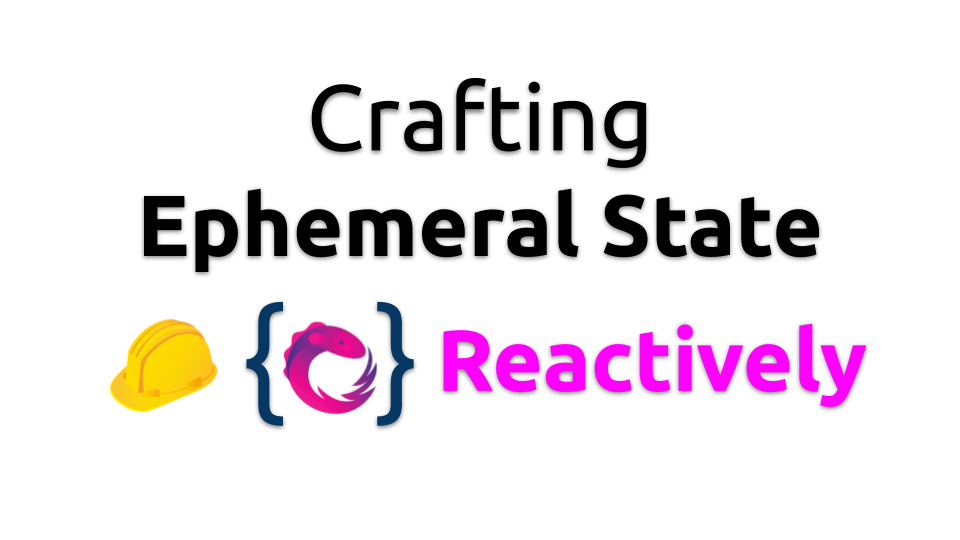
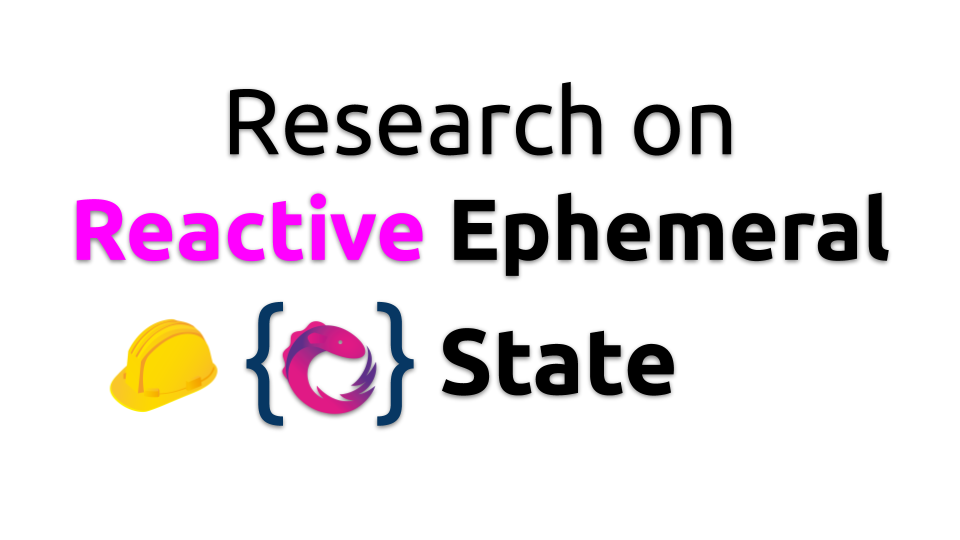
Moved away from StackBlitz

diff --git a/src/app/examples/demo-basics/1/demo-basics-1.component.ts b/src/app/examples/demo-basics/1/demo-basics-1.component.ts
@@ -21,7 +21,7 @@ const initComponentState = {
 @Component({
     selector: 'demo-basics-1',
     template: `
-        <h3>Demo Basic 1 - mutating the state</h3>
+        <h3>Demo Basic 1 - Setup and Retrieving State</h3>
         <!-- CC Dominic Elm and his template streams :) -->
         <mat-expansion-panel
                 (expandedChange)="listExpandedChanges.next($event)"

diff --git a/src/app/examples/demo-basics/3/demo-basics-3.component.ts b/src/app/examples/demo-basics/3/demo-basics-3.component.ts
@@ -28,7 +28,7 @@ const initComponentState = {
 @Component({
     selector: 'demo-basics-3',
     template: `
-        <h3>Demo Basics 3</h3>
+        <h3>Demo Basics 3 - Introduce MVVM Architecture</h3>
         <mat-expansion-panel
                 *ngIf="model$ | async as m"
                 (expandedChange)="listExpandedChanges.next($event)"

diff --git a/src/app/examples/demo-basics/2/demo-basics-2.component.ts b/src/app/examples/demo-basics/2/demo-basics-2.component.ts
@@ -22,7 +22,7 @@ const initComponentState = {
 @Component({
     selector: 'demo-basics-2',
     template: `
-        <h3>Demo Basics 2</h3>
+        <h3>Demo Basics 2 - Handle Side Effects</h3>
         <mat-expansion-panel
                 *ngIf="model$ | async as m"
                 (expandedChange)="listExpandedChanges.next($event)"

diff --git a/src/app/examples/demo-basics/4/demo-basics-4.view.html b/src/app/examples/demo-basics/4/demo-basics-4.view.html
@@ -1,4 +1,4 @@
-<h3>Simple List Component</h3>
+<h3>Final Example</h3>
 <mat-expansion-panel
         *ngIf="vm.baseModel$ | async as bm"
         (expandedChange)="vm.listExpandedChanges.next($event)"

diff --git a/README.md b/README.md
@@ -1,5 +1,8 @@
-
+![](https://github.com/BioPhoton/blog-crafting-reactive-ephemeral-state-in-angular-and-rxjs/raw/master/images/cover-reactive-local-state__michael-hladky.png "Reactive-Ephemeral-State - Cover")
+# Research on Reactive-Ephemeral-State in component oriented frameworks
 ### Studies are done with Angular as an example for a component-oriented framework and RxJS is used as an example for a reactive programming library
+
+Angular, RxJS, State-Management, Ephemeral-State
 
 **Personal Quote:** 
 >After I was done with all the documentation and examples I realized nobody will read all this,
@@ -30,9 +33,10 @@ RxJS is used as a Reactive programming library as it is well supported and the o
 
 <!-- toc -->
 
+- [TL;DR](#tldr)
 - [Methodology](#methodology)
 - [Layers of state](#layers-of-state)
-  * [What is the ephemeral state?](#what-is-the-ephemeral-state)
+  * [What is ephemeral state?](#what-is-ephemeral-state)
     + [Global vs Local Accessibility of Data Structures](#global-vs-local-accessibility-of-data-structures)
     + [Static vs Dynamic Lifetime of Data Structures](#static-vs-dynamic-lifetime-of-data-structures)
     + [Global vs Local Processed Sources](#global-vs-local-processed-sources)
@@ -53,12 +57,7 @@ RxJS is used as a Reactive programming library as it is well supported and the o
   * [Service Design](#service-design)
   * [Service Implementation](#service-implementation)
   * [Service Usage](#service-usage)
-- [Glossary](#glossary)
-- [Rethinking Components based on Ephemeral State Management](#rethinking-components-based-on-ephemeral-state-management)
-- [Dynamic Component State and Reactive Context](#dynamic-component-state-and-reactive-context)
-  * [Initialisation and Cleanup](#initialisation-and-cleanup)
-  * [Overriding State Changes and Effects](#overriding-state-changes-and-effects)
-  * [Historical problems with state management in the frontend](#historical-problems-with-state-management-in-the-frontend)
+- [Summary](#summary)
 
 <!-- tocstop -->
 
@@ -76,6 +75,7 @@ If you are also into state management of your container component you can get a 
 
 Here the demo:
 - [🎥 Live Demo](https://www.youtube.com/watch?v=I8uaHMs8rw0&t=24m47s) 
+- [📦 Example Code](https://github.com/BioPhoton/research-reactive-ephemeral-state-in-component-oriented-frontend-frameworks/tree/master/src/app/examples/demo-basics)
 
 # Methodology
 
@@ -1421,4 +1421,4 @@ The first-draft is contained in the following repository:
 All Examples can be found in this repository:
 - [📦 research-on-reactive-ephemeral-state-in-component-oriented-frontend-frameworks](https://github.com/BioPhoton/blog-crafting-reactive-ephemeral-state-in-angular-and-rxjs/) 
 A Talk with a good live demo at the end can be found here:
-- [🎥 Angular Vienna, Angular and RxJS - Tackling Ephemeral State Reactively](https://www.youtube.com/watch?v=I8uaHMs8rw0) 
+- [🎥 Angular Vienna, Angular and RxJS - Tackling Ephemeral State Reactively](https://www.youtube.com/watch?v=I8uaHMs8rw0)
